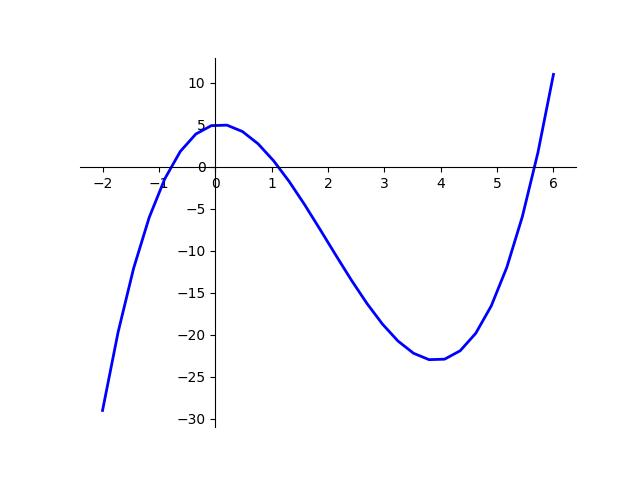
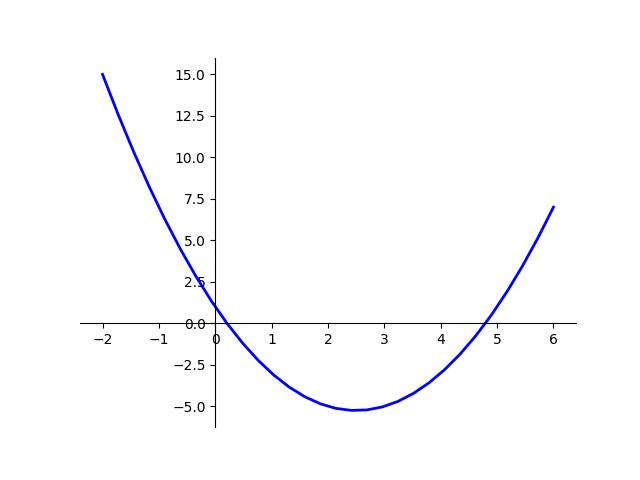
Добавила макрос названия функции

diff --git a/SIT_3.2/template_2/function2.html b/SIT_3.2/template_2/function2.html
@@ -1,4 +1,7 @@
 <!DOCTYPE html>
+
+
+
 <html lang="en">
 <head>
     <meta charset="UTF-8">
@@ -14,13 +17,13 @@
             <!-- если номер варианта совпадает со значением i, устанавливаем
             атрибут selected, атрибут value для каждой строки будет совпадать с i -->
             
-            <option selected value=0> f(x)</option>
+            <option value=0> f(x)</option>
             
             
             <!-- если номер варианта совпадает со значением i, устанавливаем
             атрибут selected, атрибут value для каждой строки будет совпадать с i -->
             
-            <option value=1> y(x)</option>
+            <option selected value=1> y(x)</option>
             
             
             <!-- если номер варианта совпадает со значением i, устанавливаем
@@ -40,9 +43,9 @@
     <p>
                 
                     
-                    <span style="font-weight:bold; font-family: cursive;">f(x)=x^3 - 6x^2 + x + 5</span>
-                    
                 
+                    
+                    <span style="font-weight:bold; font-family: cursive;">y(x) = x^2 - 5x + 1 </span>
                     
                 
                     
@@ -53,158 +56,171 @@
              <table  border="1px"  width="200" >
                 <tr>
                 <th>x</th>
-                <th>f(x)</th>
+                <th>
+                    
+
+
+    
+
+    
+        <span >y(x)</span>
+    
+
+    
+
+
+                </th>
                 </tr>
                 <tbody>
                 
                 <tr>
                     <td>-2.0</td>
-                    <td>-29.0</td>
+                    <td>15.0</td>
                 </tr>
                 
                 <tr>
                     <td>-1.724</td>
-                    <td>-19.69</td>
+                    <td>12.59</td>
                 </tr>
                 
                 <tr>
                     <td>-1.448</td>
-                    <td>-12.07</td>
+                    <td>10.34</td>
                 </tr>
                 
                 <tr>
                     <td>-1.172</td>
-                    <td>-6.03</td>
+                    <td>8.24</td>
                 </tr>
                 
                 <tr>
                     <td>-0.897</td>
-                    <td>-1.44</td>
+                    <td>6.29</td>
                 </tr>
                 
                 <tr>
                     <td>-0.621</td>
-                    <td>1.83</td>
+                    <td>4.49</td>
                 </tr>
                 
                 <tr>
                     <td>-0.345</td>
-                    <td>3.9</td>
+                    <td>2.84</td>
                 </tr>
                 
                 <tr>
                     <td>-0.069</td>
-                    <td>4.9</td>
+                    <td>1.35</td>
                 </tr>
                 
                 <tr>
                     <td>0.207</td>
-                    <td>4.96</td>
+                    <td>0.01</td>
                 </tr>
                 
                 <tr>
                     <td>0.483</td>
-                    <td>4.2</td>
+                    <td>-1.18</td>
                 </tr>
                 
                 <tr>
                     <td>0.759</td>
-                    <td>2.74</td>
+                    <td>-2.22</td>
                 </tr>
                 
                 <tr>
                     <td>1.034</td>
-                    <td>0.72</td>
+                    <td>-3.1</td>
                 </tr>
                 
                 <tr>
                     <td>1.31</td>
-                    <td>-1.74</td>
+                    <td>-3.83</td>
                 </tr>
                 
                 <tr>
                     <td>1.586</td>
-                    <td>-4.52</td>
+                    <td>-4.41</td>
                 </tr>
                 
                 <tr>
                     <td>1.862</td>
-                    <td>-7.49</td>
+                    <td>-4.84</td>
                 </tr>
                 
                 <tr>
                     <td>2.138</td>
-                    <td>-10.51</td>
+                    <td>-5.12</td>
                 </tr>
                 
                 <tr>
                     <td>2.414</td>
-                    <td>-13.48</td>
+                    <td>-5.24</td>
                 </tr>
                 
                 <tr>
                     <td>2.69</td>
-                    <td>-16.26</td>
+                    <td>-5.21</td>
                 </tr>
                 
                 <tr>
                     <td>2.966</td>
-                    <td>-18.72</td>
+                    <td>-5.03</td>
                 </tr>
                 
                 <tr>
                     <td>3.241</td>
-                    <td>-20.74</td>
+                    <td>-4.7</td>
                 </tr>
                 
                 <tr>
                     <td>3.517</td>
-                    <td>-22.2</td>
+                    <td>-4.22</td>
                 </tr>
                 
                 <tr>
                     <td>3.793</td>
-                    <td>-22.96</td>
+                    <td>-3.58</td>
                 </tr>
                 
                 <tr>
                     <td>4.069</td>
-                    <td>-22.9</td>
+                    <td>-2.79</td>
                 </tr>
                 
                 <tr>
                     <td>4.345</td>
-                    <td>-21.9</td>
+                    <td>-1.85</td>
                 </tr>
                 
                 <tr>
                     <td>4.621</td>
-                    <td>-19.83</td>
+                    <td>-0.75</td>
                 </tr>
                 
                 <tr>
                     <td>4.897</td>
-                    <td>-16.56</td>
+                    <td>0.49</td>
                 </tr>
                 
                 <tr>
                     <td>5.172</td>
-                    <td>-11.97</td>
+                    <td>1.89</td>
                 </tr>
                 
                 <tr>
                     <td>5.448</td>
-                    <td>-5.93</td>
+                    <td>3.44</td>
                 </tr>
                 
                 <tr>
                     <td>5.724</td>
-                    <td>1.69</td>
+                    <td>5.15</td>
                 </tr>
                 
                 <tr>
                     <td>6.0</td>
-                    <td>11.0</td>
+                    <td>7.0</td>
                 </tr>
                 
                 </tbody>

diff --git a/SIT_3.2/template_2/functions_template2.html b/SIT_3.2/template_2/functions_template2.html
@@ -1,4 +1,14 @@
 <!DOCTYPE html>
+
+{% macro func_name(func) %}
+{% set n = len(func) %}
+{% for i in range(n) %}
+    {% if i == n_var %}
+        <span >{{list_f[i]}}</span>
+    {% endif %}
+{% endfor %}
+{% endmacro %}
+
 <html lang="en">
 <head>
     <meta charset="UTF-8">
@@ -11,8 +21,6 @@
     <p>Функция:
         <select name=func>
             {% for i in range(count_f) %}
-            <!-- если номер варианта совпадает со значением i, устанавливаем
-            атрибут selected, атрибут value для каждой строки будет совпадать с i -->
             {% if n_var == i %}
             <option selected value={{i}}> {{list_f[i]}}</option>
             {% else %}
@@ -39,7 +47,9 @@
              <table  border="1px"  width="200" >
                 <tr>
                 <th>x</th>
-                <th>f(x)</th>
+                <th>
+                    {{ func_name(list_f) }}
+                </th>
                 </tr>
                 <tbody>
                 {% for i in range(len(x)) %}

diff --git a/SIT_3.2/main.py b/SIT_3.2/main.py
@@ -64,7 +64,7 @@ def f_x(x, n_var):
         y = 1 / (x ** 2 + 1)
     return (y)
 def Zadanie2():
-    n_var = 0
+    n_var = 1
     list_name_f = ["f(x)", "y(x)", "z(x)"]
     list_name_f_long=["f(x)=x^3 - 6x^2 + x + 5", "y(x) = x^2 - 5x + 1 ", "z(x) = 1 / (x^2 + 1)"]
     x_list = list()
@@ -76,10 +76,7 @@ def Zadanie2():
     x = a
 
     for i in np.arange(x, b+h, h) :
-        print(x-h),
-        print(x),
-        print(h),
-        x_list.append(i),
+        x_list.append(i)
         f_list.append(f_x(i,n_var))
 
 
